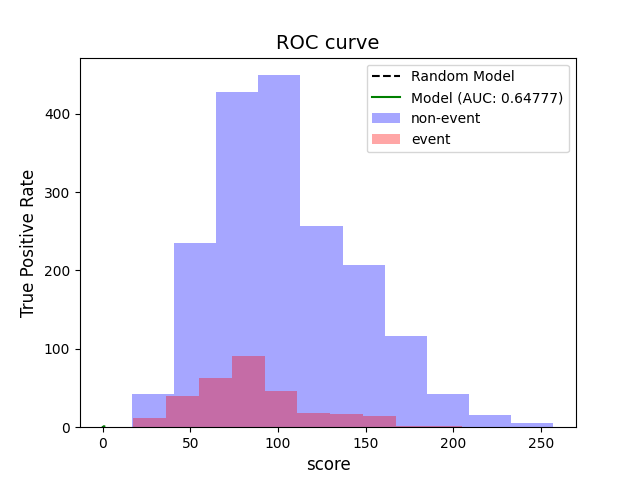
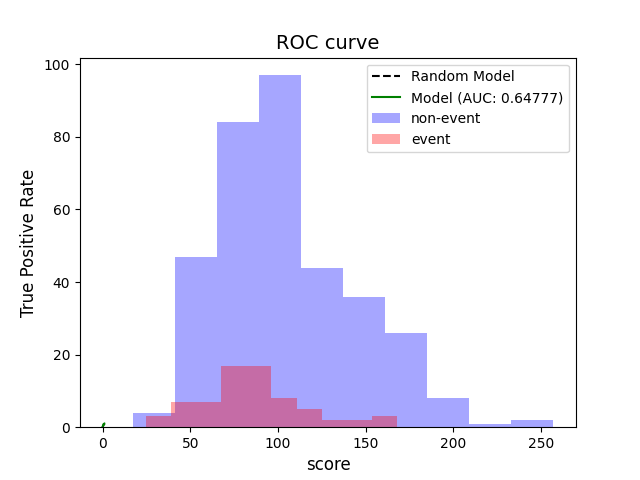
second commit

diff --git a/src/modeling.py b/src/modeling.py
@@ -16,6 +16,9 @@ from optbinning.scorecard import Scorecard
 from imblearn.over_sampling import SMOTE
 from optbinning.scorecard import plot_auc_roc, plot_cap, plot_ks
 import os
+import mlflow
+from mlflow.models import signature, infer_signature
+
 
 
 def load_data(data_path):
@@ -33,13 +36,13 @@ def load_data(data_path):
     """
     try:
         data = pd.read_csv(f'{data_path}')
-        logging.error('SUCCESS LOADING DATA')
+        logging.info('SUCCESS LOADING DATA')
     except Exception as e:
         logging.error(f"error reading csv_file:{e}")
 
     try:
         data = pd.read_excel(f'{data_path}')
-        logging('SUCCESS LOADING DATA')
+        logging.info('SUCCESS LOADING DATA')
     except Exception as e:
         logging.error(f"error reading excel_file:{e}")
     return data
@@ -69,6 +72,22 @@ def visualizations(data, wdir):
         plt.savefig(f"{wdir}/outputs/{col}_.png")
 
         return
+    try: 
+        for var in data.select_dtypes(include='number').columns:
+            variable = var
+            X = data[variable]
+            y = data['Default'].values
+
+            # Initialize the BinningProcess
+            opt = OptimalBinning(name=variable, dtype="numerical",
+                                class_weight="balanced", solver="mip", monotonic_trend="auto_asc_desc")
+            opt.fit(X, y)
+            binning_table = opt.binning_table
+            binning_table.build()
+            binning_table.plot(show_bin_labels=True)
+            plt.savefig(f'{wdir}/outputs/{var}_bins.png')
+    except Exception as e: 
+        logging.error('Error ploting optimal binning::{e}')
 
 
 def model_fitting(selection_criteria, list_variables, binning_fit_params, ml_model, X_train, y_train):
@@ -215,6 +234,98 @@ def get_policy_table(score_data, config_file):
     except Exception as e:
         logging.error(f'Error generating policy table:: {e}')
 
+
+# Function to create an experiment in MLFlow and log parameters, metrics and artifacts files like images etc.
+
+def create_experiment(wdir, model_data, model_name, experiment_name, run_name, run_metrics, model,
+                      run_params=None,y=None, X=None):
+    mlflow.set_tracking_uri("http://localhost:5000")
+    mlflow.set_experiment(experiment_name)
+
+    with mlflow.start_run():
+
+        dataset_source_url = "https://www.kaggle.com/datasets/neelesh0602/bankcsv"
+        
+
+        dataset: PandasDataset = mlflow.data.from_pandas(
+            model_data, source=dataset_source_url)
+
+        mlflow.log_input(dataset, context="training")
+        signature = infer_signature(
+            X, model.predict(X))
+        #log model
+        mlflow.sklearn.log_model(
+            model, model_name, signature=signature)
+
+        ######
+        score = model.score(X)
+        mask = y == 0
+        plt.hist(score[mask], label="non-event", color="b", alpha=0.35)
+        plt.hist(score[~mask], label="event", color="r", alpha=0.35)
+        plt.xlabel("score")
+        plt.legend()
+        plt.savefig(f"{wdir}/outputs/DEFAULT_DISTRIB.png")
+        mlflow.log_artifact(f"{wdir}/outputs/DEFAULT_DISTRIB.png", artifact_path="outputs")
+        preds = model.predict(X)
+
+        cm = confusion_matrix(y, preds)
+        plt.figure()
+        disp = ConfusionMatrixDisplay(confusion_matrix=cm, )
+
+        disp = ConfusionMatrixDisplay(confusion_matrix=cm, display_labels=[
+            'Non_Default', 'Default'])
+        disp.plot(cmap=plt.cm.Blues)
+        plt.title('Confusion Matrix', fontsize=15, pad=20)
+        plt.xlabel('Prediction', fontsize=11)
+        plt.ylabel('Actual', fontsize=11)
+        # Customizations
+        plt.gca().xaxis.set_label_position('top')
+        plt.gca().xaxis.tick_top()
+        plt.gca().figure.subplots_adjust(bottom=0.2)
+        plt.gca().figure.text(0.5, 0.05, 'Prediction', ha='center', fontsize=13)
+        plt.savefig(f'{wdir}/outputs/confusion_matrix.png')
+        # mlflow.log_artifact(f"{wdir}/outputs/confusion_matrix.png", artifact_path="outputs")
+
+        f1_scor = f1_score(y, preds)
+        mlflow.log_metric("f1_score", f1_scor)
+        
+        recall_scor = recall_score(y, preds)
+        mlflow.log_metric("recall_score", recall_scor)
+        precision_scor = precision_score(y, preds)
+        mlflow.log_metric("precision_score", precision_scor)
+
+
+            #params
+        if not run_params == None:
+            for param in run_params:
+                mlflow.log_param(param, run_params[param])
+
+        # for metric in run_metrics:
+        #     mlflow.log_metric(metric, run_metrics[metric])
+
+            # Log model
+        signature = infer_signature(
+            X, model.predict(X))
+
+        mlflow.sklearn.log_model(model, "model", signature=signature)
+
+        mlflow.sklearn.log_model(model, "model")
+
+        mlflow.log_artifact(f'{wdir}/outputs/confusion_matrix.png',
+                            artifact_path="performance")
+        mlflow.log_artifact(f"{wdir}/outputs/auc_roc.png",
+                            artifact_path="performance")
+
+        mlflow.log_artifact(f'{wdir}/outputs/confusion_matrix.png',
+                            artifact_path="performance")
+
+        mlflow.set_tag("tag1", "logistic_regression_model")
+    print('Run - %s is logged to Experiment - %s' %
+          (run_name, experiment_name))
+
+
+# creating the MLflow
+
 def main():
     wdir = os.getcwd()
     data_path = f'{wdir}/outputs/data_for_modeling.csv'
@@ -289,40 +400,15 @@ def main():
         score_data=data, config_file=policy_table_assumptions_config_file)
     policy_tab.to_csv(f"{wdir}/outputs/policy_table.csv", index=False)
 
-    score = fitted_model.score(X)
-    mask = y == 0
-    plt.hist(score[mask], label="non-event", color="b", alpha=0.35)
-    plt.hist(score[~mask], label="event", color="r", alpha=0.35)
-    plt.xlabel("score")
-    plt.legend()
-    plt.savefig(f"{wdir}/outputs/DEFAULT_DISTRIB.png")
+    # print(
+    #     f"The f1_score::{f1_scor} the recall_score::{recall_scor} the precision_score::{precision_scor}")
 
-    preds = fitted_model.predict(X_test)
-    print(classification_report(y_test, preds))
-
-    cm = confusion_matrix(y_test, preds)
-    plt.figure()
-    disp = ConfusionMatrixDisplay(confusion_matrix=cm, )
-
-    disp = ConfusionMatrixDisplay(confusion_matrix=cm, display_labels=[
-        'Non_Default', 'Default'])
-    disp.plot(cmap=plt.cm.Blues)
-    plt.title('Confusion Matrix', fontsize=15, pad=20)
-    plt.xlabel('Prediction', fontsize=11)
-    plt.ylabel('Actual', fontsize=11)
-    # Customizations
-    plt.gca().xaxis.set_label_position('top')
-    plt.gca().xaxis.tick_top()
-    plt.gca().figure.subplots_adjust(bottom=0.2)
-    plt.gca().figure.text(0.5, 0.05, 'Prediction', ha='center', fontsize=13)
-    plt.savefig(f'{wdir}/outputs/confusion_matrix.png')
-    f1_scor = f1_score(y_test, preds)
-    recall_scor = recall_score(y_test, preds)
-    precision_scor = precision_score(y_test, preds)
-    print(
-        f"The f1_score::{f1_scor} the recall_score::{recall_scor} the precision_score::{precision_scor}")
-
-    
+    experiment_name = 'credit_scorer'
+    run_name = 'first_gen_model'
+    model_name = 'ML_scorecard'
+    run_metrics=None
+    create_experiment(experiment_name=experiment_name, model_name=model_name, run_name=run_name, run_metrics=run_metrics,
+                      model=fitted_model, model_data=model_data, X=X_test, y=y_test, wdir=wdir)
 
 
 if __name__ == "__main__":
